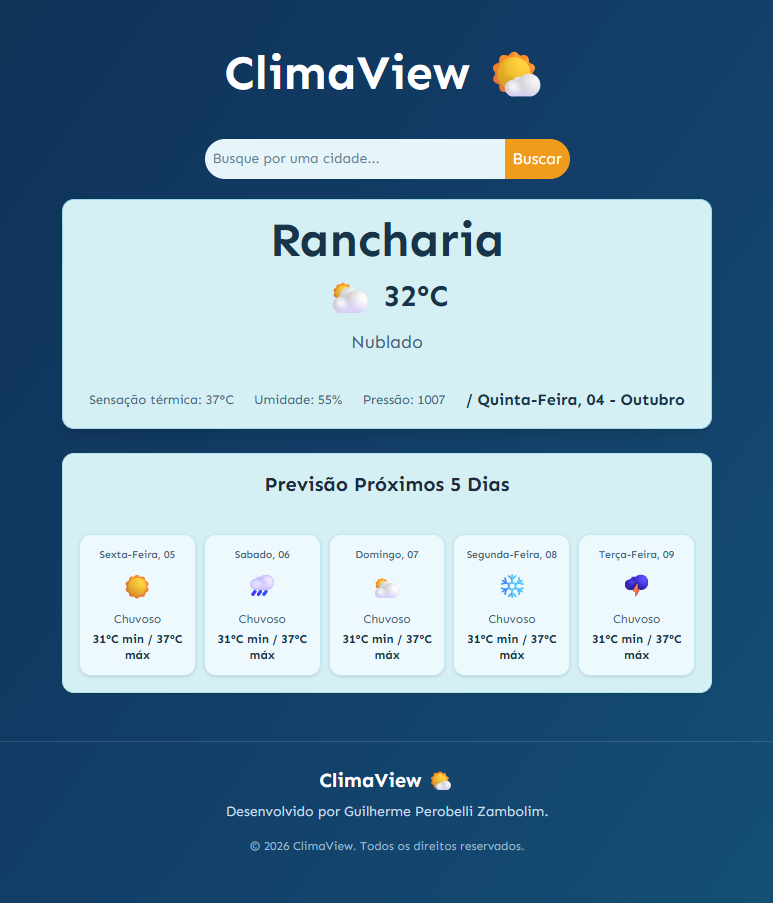
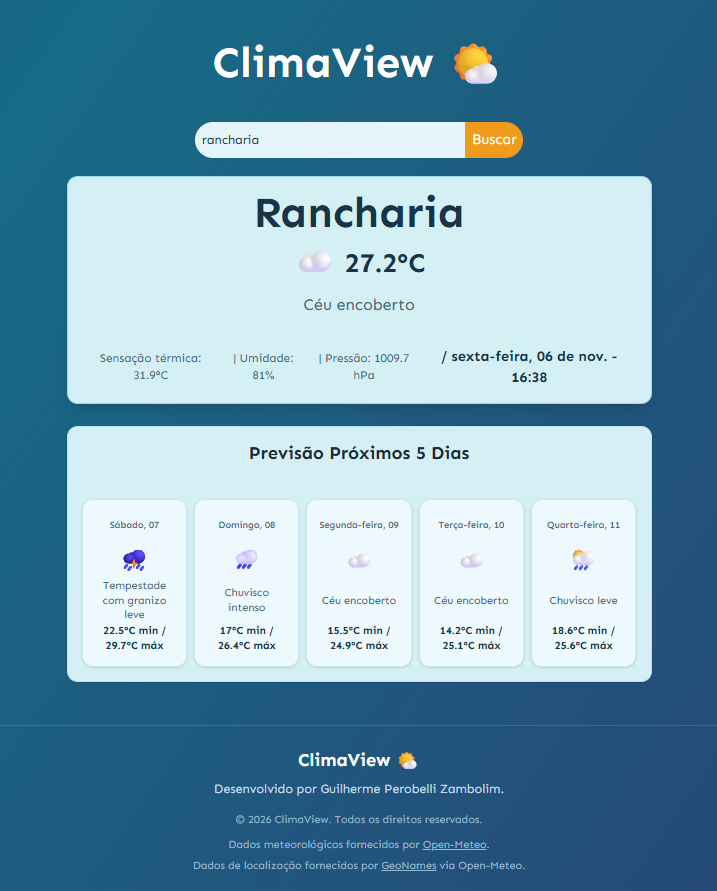
fix: corrige datas da previsão e adiciona link do deploy ao README

diff --git a/src/components/Aside.tsx b/src/components/Aside.tsx
@@ -9,10 +9,15 @@ const Aside = ({
 }: PrevisaoDia) => {
   const condicaoClima = obterCondicaoClimatica(cod_climatico);
 
-  const dataFormatada = new Date(data).toLocaleDateString("pt-BR", {
-    weekday: "long",
-    day: "2-digit",
-  });
+  const [ano, mes, dia] = data.split("-").map(Number);
+
+  const dataFormatada = new Date(ano, mes - 1, dia).toLocaleDateString(
+    "pt-BR",
+    {
+      weekday: "long",
+      day: "2-digit",
+    },
+  );
 
   return (
     <div className="flex justify-center gap-2 mt-6">

diff --git a/src/components/Card.tsx b/src/components/Card.tsx
@@ -1,5 +1,4 @@
 import type { CardProps } from "../types";
-import type { CondicaoClimatica } from "../weatherUtils";
 
 const Card = ({ cidade, dados, condicao }: CardProps) => {
   const agora = new Date();

diff --git a/README.md b/README.md
@@ -2,11 +2,15 @@
 
 **Consulte o clima. Acompanhe a previsão. Planeje seu dia!**
 
-O ClimaView é uma aplicação web desenvolvida para apresentar informações meteorológicas de maneira simples, intuitiva e visualmente agradável.
+O **ClimaView** é uma aplicação web desenvolvida para apresentar informações meteorológicas de maneira simples, intuitiva e visualmente agradável.
 
-A proposta é permitir que o usuário consulte as condições climáticas de diferentes cidades, acompanhando informações como temperatura, sensação térmica, umidade, pressão atmosférica e previsão para os próximos dias.
+A aplicação permite consultar as condições climáticas de diferentes cidades, apresentando informações como temperatura atual, sensação térmica, umidade, pressão atmosférica e previsão do tempo para os próximos cinco dias.
 
-O projeto está sendo desenvolvido gradualmente, começando pela construção da interface visual e avançando para a implementação das funcionalidades e integração com uma API meteorológica.
+O projeto utiliza as APIs da **Open-Meteo** para obter informações geográficas e meteorológicas em tempo real, atualizando dinamicamente os componentes conforme a cidade selecionada pelo usuário.
+
+## Demonstração online
+
+**[Acesse o ClimaView](https://climaview-weather.netlify.app/)**
 
 ## Preview
 
@@ -17,32 +21,73 @@ O projeto está sendo desenvolvido gradualmente, começando pela construção da
 **Implementadas**
 
 - Interface com fundo animado em degradê.
-- Campo de pesquisa para cidades.
-- Card principal para apresentação das condições climáticas.
-- Exibição de temperatura, sensação térmica, umidade e pressão atmosférica.
-- Área dedicada à previsão do tempo para os próximos cinco dias.
+- Campo de pesquisa de cidades.
+- Integração com a Geocoding API da Open-Meteo.
+- Modal para seleção entre cidades encontradas.
+- Consulta de informações meteorológicas por latitude e longitude.
+- Integração com a Weather Forecast API da Open-Meteo.
+- Card principal com informações meteorológicas dinâmicas:
+  - Nome da cidade.
+  - Temperatura atual.
+  - Sensação térmica.
+  - Umidade relativa do ar.
+  - Pressão atmosférica.
+  - Condição climática e emoji correspondente.
+  - Data e horário.
+- Previsão dinâmica para os próximos cinco dias:
+  - Data formatada em português.
+  - Temperaturas mínima e máxima.
+  - Descrição da condição climática.
+  - Emoji correspondente à previsão.
+- Interpretação dos códigos meteorológicos por meio de uma função utilitária.
 - Componentes reutilizáveis desenvolvidos com React.
-- Identidade visual personalizada com tema em tons de azul e detalhes em laranja.
+- Comunicação entre componentes utilizando Props e callbacks.
+- Gerenciamento de estados com useState.
+- Estilização personalizada com Tailwind CSS.
 
-**Planejadas**
+## Planejadas
 
-- Implementar a pesquisa de informações meteorológicas por cidade.
-- Integrar uma API de previsão do tempo.
-- Exibir informações climáticas de forma dinâmica.
-- Atualizar os dados conforme a cidade pesquisada.
-- Apresentar a previsão real para os próximos cinco dias.
-- Exibir ícones de acordo com as condições meteorológicas.
-- Implementar estados de carregamento e tratamento de erros.
+- Implementar indicador visual de carregamento durante as requisições.
+- Melhorar o tratamento de erros, apresentando mensagens amigáveis ao usuário.
 - Aprimorar a responsividade para dispositivos móveis.
-
-**Status do projeto:** em desenvolvimento. A interface visual está estruturada e a implementação das funcionalidades será realizada nas próximas etapas.
+- Realizar testes com diferentes cidades e condições climáticas.
+- Refinar a experiência do usuário e os detalhes visuais da interface.
+  - **Status do projeto:** em desenvolvimento. A integração com as APIs meteorológicas e a apresentação dinâmica das informações já estão implementadas. As próximas etapas estão concentradas em melhorias de experiência do usuário, responsividade e tratamento de estados.
 
 ## Tecnologias utilizadas
 
-- React: construção da interface e organização dos componentes.
-- TypeScript: tipagem e organização do código.
-- Tailwind CSS: estilização e construção do layout.
-- Vite: ambiente de desenvolvimento e inicialização da aplicação.
+- **React:** construção da interface e organização dos componentes.
+- **TypeScript:** tipagem estática e organização dos dados e propriedades.
+- **Tailwind CSS:** estilização e construção do layout.
+- **Vite:** ambiente de desenvolvimento e inicialização da aplicação.
+- **Open-Meteo API:** obtenção de informações geográficas e meteorológicas.
+
+## APIs utilizadas
+
+- O projeto utiliza duas APIs disponibilizadas pela Open-Meteo:
+
+**Geocoding API**
+
+- Responsável por pesquisar cidades e retornar informações como:
+  - Nome da cidade.
+  - País.
+  - Região ou estado.
+  - Latitude.
+  - Longitude.
+
+**Weather Forecast API**
+
+- Responsável por fornecer informações meteorológicas a partir das coordenadas geográficas selecionadas.
+
+- Os dados utilizados incluem:
+  - Temperatura atual (temperature_2m).
+  - Sensação térmica (apparent_temperature).
+  - Umidade relativa (relative_humidity_2m).
+  - Pressão atmosférica (pressure_msl).
+  - Código da condição climática (weather_code).
+  - Temperaturas mínimas e máximas diárias.
+  - Datas correspondentes à previsão.
+- A previsão é configurada para retornar seis dias: o dia atual e os cinco dias seguintes.
 
 ## Informações meteorológicas
 
@@ -55,6 +100,19 @@ A aplicação foi projetada para apresentar as seguintes informações:
 - Umidade: percentual de umidade do ar.
 - Pressão atmosférica: pressão registrada no momento da consulta.
 - Previsão para os próximos cinco dias: temperaturas mínimas e máximas e condições climáticas previstas.
+
+## Organização dos componentes
+
+- Header: pesquisa de cidades, consulta à Geocoding API e seleção da localização.
+- Card: apresentação das condições meteorológicas atuais da cidade selecionada.
+- Aside: apresentação dos cartões com a previsão dos próximos cinco dias.
+- Footer: rodapé e informações do projeto.
+  - Os componentes recebem informações por meio de Props, enquanto o componente principal gerencia os estados e a comunicação com a API.
+
+## Organização dos dados
+- O projeto utiliza arquivos auxiliares para organizar os tipos e as funções:
+  - **types.ts:** definição dos tipos utilizados na aplicação, incluindo Cidade, DadosMeteorologicos, CardProps e PrevisaoDia.
+  - **weatherUtils.ts:** função obterCondicaoClimatica(), responsável por interpretar os códigos meteorológicos da Open-Meteo e retornar a descrição e o emoji correspondentes.
 
 ## Como executar o projeto
 
@@ -85,7 +143,9 @@ weather-app/
 │   │   ├── Footer.tsx
 │   │   └── Header.tsx
 │   ├── index.css
-│   └── main.tsx
+│   ├── main.tsx
+│   ├── types.ts
+│   └── weatherUtils.ts
 ├── index.html
 ├── package.json
 ├── package-lock.json
@@ -96,23 +156,31 @@ weather-app/
 
 ## Objetivo do projeto
 
-O objetivo do ClimaView é desenvolver uma aplicação de consulta meteorológica que apresente informações climáticas de maneira clara, organizada e acessível.
+O objetivo do ClimaView é desenvolver uma aplicação meteorológica funcional, apresentando informações climáticas de maneira clara, organizada e acessível.
 
-Além de proporcionar uma experiência visual agradável, o projeto busca colocar em prática meus conhecimentos de React, TypeScript, estilização com Tailwind CSS, consumo de APIs e manipulação de dados.
+O projeto faz parte da minha jornada de aprendizado em desenvolvimento full-stack e surgiu da vontade de colocar em prática os conhecimentos que venho adquirindo por meio dos meus estudos, especialmente durante minha formação na **OneBitCode**, onde venho estudando os fundamentos de desenvolvimento web, React, JavaScript e outras tecnologias.
 
-A proposta é construir uma aplicação funcional, explorando a integração entre interface e informações meteorológicas.
+Também utilizei como referência um projeto apresentado pelo canal **DevClub | Programação**. A partir dessa referência, busquei desenvolver minha própria versão da aplicação, construindo a estrutura, os componentes e a lógica por conta própria, em vez de simplesmente reproduzir o código apresentado no vídeo.
 
-## Próximos passos
+Durante o desenvolvimento, procurei aplicar e consolidar os conhecimentos adquiridos nos estudos, especialmente:
+- Desenvolvimento de interfaces com React.
+- Utilização de TypeScript e tipagem de propriedades.
+- Criação e reutilização de componentes.
+- Gerenciamento de estados com useState.
+- Comunicação entre componentes por meio de Props e callbacks.
+- Consumo de APIs utilizando Fetch, Promises e async/await.
+- Manipulação de arrays e objetos.
+- Renderização dinâmica de componentes com map().
+- Manipulação e interpretação de respostas JSON.
+- Utilização de funções auxiliares para organizar a lógica da aplicação.
+- Estilização de interfaces com Tailwind CSS.
+  - O ClimaView também representa uma oportunidade de desenvolver habilidades importantes para minha futura atuação profissional como Desenvolvedor full-stack, especialmente raciocínio lógico, organização de código, resolução de problemas e autonomia no desenvolvimento.
 
-- Implementar a lógica de pesquisa por cidade.
-- Escolher e integrar uma API meteorológica.
-- Tornar os componentes dinâmicos utilizando propriedades (Props).
-- Exibir informações meteorológicas reais.
-- Implementar a previsão do tempo para os próximos cinco dias.
-- Adicionar estados de carregamento e tratamento de erros.
-- Melhorar a responsividade para dispositivos móveis.
-- Aprimorar a interface de acordo com as condições climáticas.
+**Referência de aprendizagem:** 
+- Formação: **[OneBitCode](https://onebitcode.com/)**
+- Canal: **DevClub | Programação**
+  - Vídeo utilizado como referência: **[Assistir ao vídeo no YouTube](https://www.youtube.com/watch?v=1mm_C-t_Vyg)**
 
-## 👨💻 Autor
+## Autor
 - Guilherme Perobelli Zambolim
 - [GitHub](https://github.com/GuilhermePerobelliZambolim)
